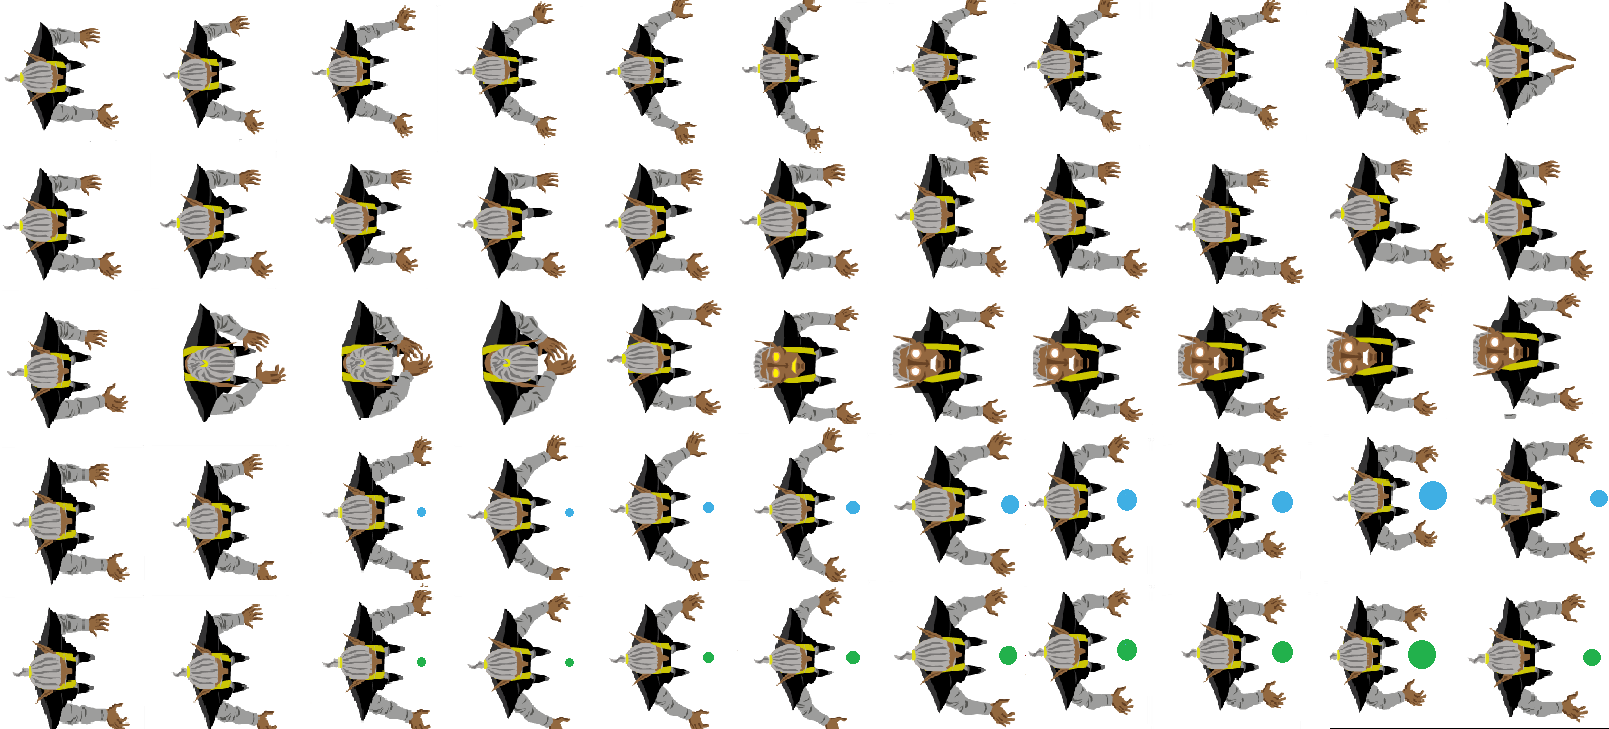
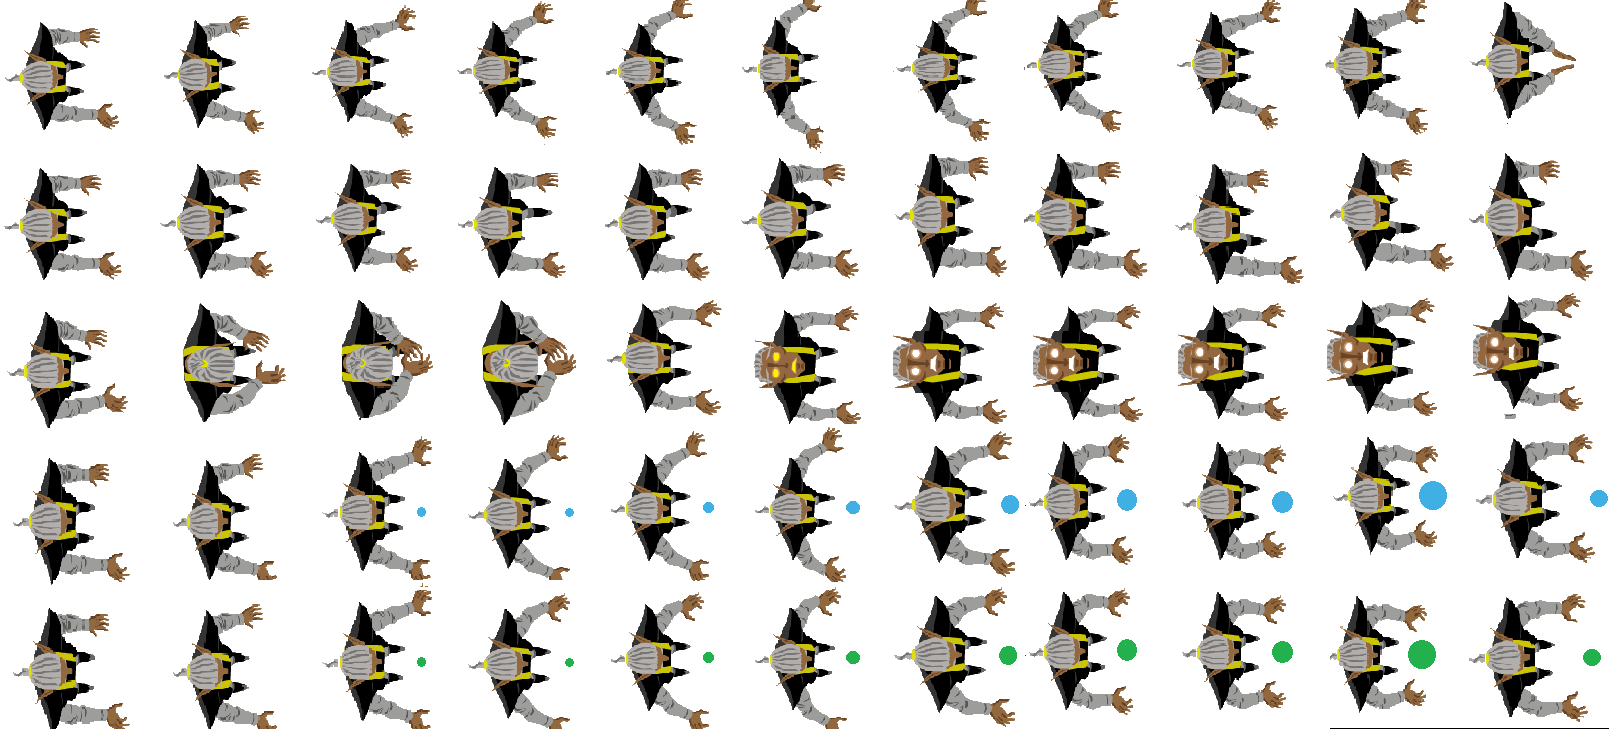
Adjusted player character sprites

diff --git a/ArgoProject/Warrior.cpp b/ArgoProject/Warrior.cpp
@@ -21,7 +21,7 @@ void Warrior::init(RenderSystem* t_rs, SDL_Rect* t_camera, Vector2 startPos)
 	m_animationRect->y = 0;
 
 	//load in the player texture
-	SDL_Surface* playerSurface = IMG_Load("Assets/warrior2.png");
+	SDL_Surface* playerSurface = IMG_Load("Assets/warrior.png");
 	m_playerTexture = SDL_CreateTextureFromSurface(Render::Instance()->getRenderer(), playerSurface);
 	SDL_QueryTexture(m_playerTexture, NULL, NULL, &textureWidth, &textureHeight);
 	SDL_FreeSurface(playerSurface);

diff --git a/ArgoProject/Server.cpp b/ArgoProject/Server.cpp
@@ -34,6 +34,11 @@ Server::Server(int PORT, bool BroadcastPublically) //Port = port to broadcast on
 	serverptr = this;
 }
 
+Server::~Server()
+{
+	delete this;
+}
+
 bool Server::ListenForNewConnection()
 {
 	SOCKET newConnection = accept(sListen, (SOCKADDR*)&addr, &addrlen); //Accept a new connection

diff --git a/ArgoProject/Server.h b/ArgoProject/Server.h
@@ -24,6 +24,7 @@ class Server
 {
 public:
 	Server(int PORT, bool BroadcastPublically = false);
+	~Server();
 	bool ListenForNewConnection();
 
 private:
